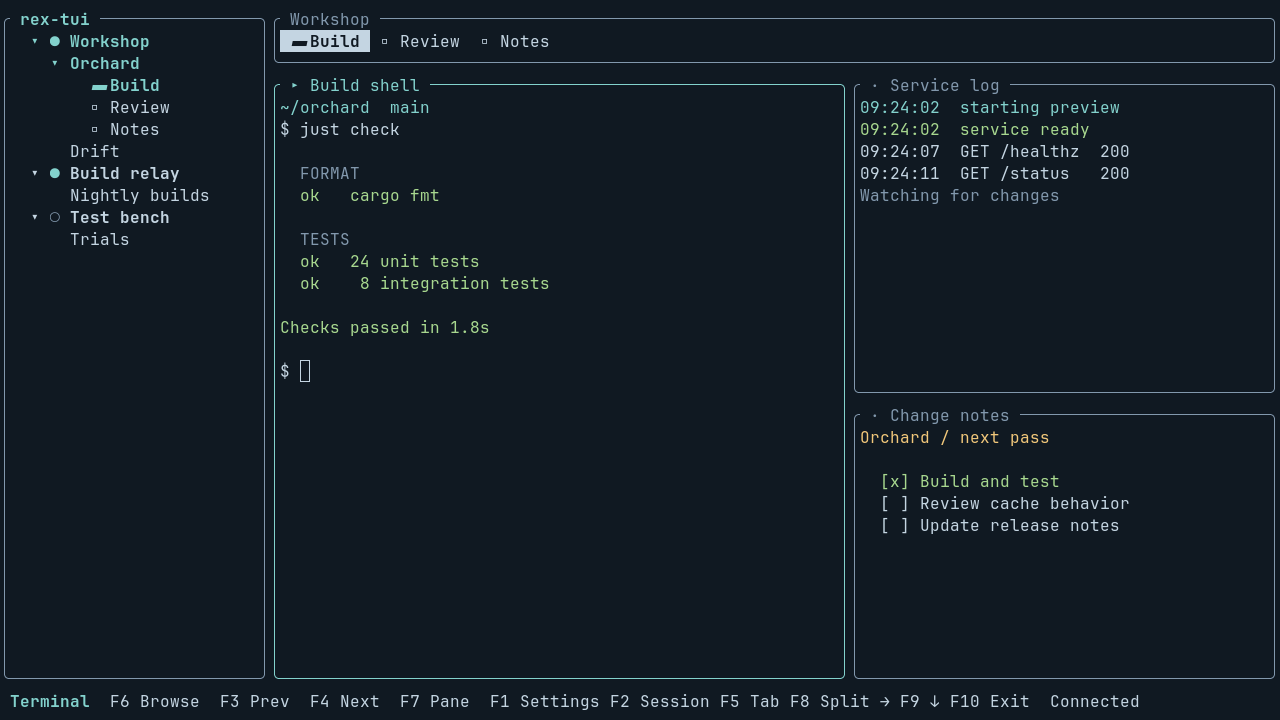
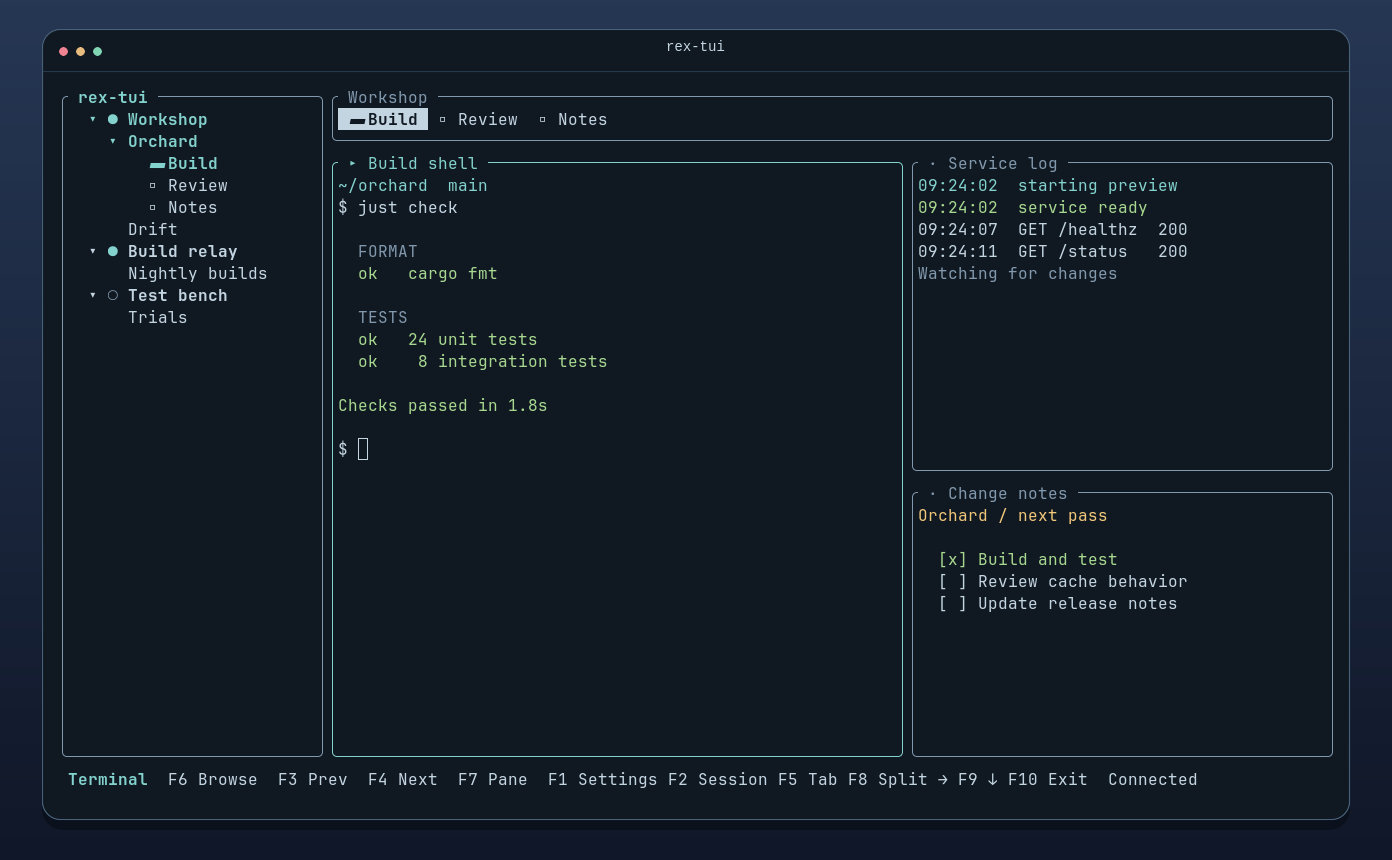
📸 Showcase rex-tui with polished terminal captures

diff --git a/scripts/tui-demo-capture.py b/scripts/tui-demo-capture.py
@@ -165,6 +165,31 @@ def wait_for(predicate, compositor, description):
     raise RuntimeError(f"Timed out waiting for {description}")
 
 
+def frame_capture(source, destination):
+    """Place the unscaled terminal capture in a presentation frame."""
+    width, height = map(int, subprocess.check_output(
+        ["magick", "identify", "-format", "%w %h", str(source)], text=True, timeout=5,
+    ).split())
+    left, top = 48, 43
+    right, bottom = left + width + 15, top + 41 + height + 15
+    artwork = [
+        f"fill '#0a101c' roundrectangle 42,51 {right + 6},{bottom + 10} 20,20",
+        f"fill '#101922' stroke '#486179' stroke-width 1 roundrectangle 42,29 {right + 6},{bottom} 18,18",
+        f"stroke '#26394c' line 43,71 {right + 5},71",
+        "stroke none fill '#f08392' circle 63,51 67,51",
+        "fill '#e8bb7f' circle 80,51 84,51",
+        "fill '#80d5b2' circle 97,51 101,51",
+    ]
+    subprocess.run([
+        "magick", "-size", f"{right + 49}x{bottom + 41}", "gradient:#263754-#101728",
+        "-draw", " ".join(artwork),
+        "-font", "Liberation-Mono", "-pointsize", "14", "-fill", "#c4d5e2",
+        "-gravity", "north", "-annotate", "+0+40", "rex-tui",
+        "-gravity", "northwest", str(source), "-geometry", f"+{left + 10}+{top + 35}",
+        "-composite", "-strip", str(destination),
+    ], check=True, timeout=10)
+
+
 def capture(args):
     binary = args.binary.resolve(strict=True)
     filename = "rex-tui-first-run.png" if args.scene == "first-run" else "rex-tui-demo.png"
@@ -172,6 +197,8 @@ def capture(args):
     labwc = shutil.which(args.compositor)
     if not labwc or not all(shutil.which(command) for command in ("foot", "grim")):
         raise RuntimeError("Install labwc, Foot and grim or supply --compositor")
+    if not args.raw and not shutil.which("magick"):
+        raise RuntimeError("Install ImageMagick or use --raw")
     if args.scene == "first-run" and not shutil.which("wtype"):
         raise RuntimeError("Install wtype to verify the first-run screen received fixture state")
     with tempfile.TemporaryDirectory(prefix="rex-tui-demo-") as directory:
@@ -237,7 +264,10 @@ def capture(args):
             draft = work / "workspace.png"
             subprocess.run(["grim", str(draft)], env=env, check=True, timeout=5)
             output.parent.mkdir(parents=True, exist_ok=True)
-            shutil.copyfile(draft, output)
+            if args.raw:
+                shutil.copyfile(draft, output)
+            else:
+                frame_capture(draft, output)
         except (RuntimeError, subprocess.SubprocessError):
             print(log.read_text(), file=sys.stderr)
             raise
@@ -258,6 +288,7 @@ def main():
     cli.add_argument("--library-path", type=Path, help="runtime libraries for a private labwc build")
     cli.add_argument("--font", default="monospace:size=12", help="Foot font descriptor")
     cli.add_argument("--scene", choices=("workspace", "first-run"), default="workspace")
+    cli.add_argument("--raw", action="store_true", help="omit the presentation frame")
     cli.add_argument("--output", type=Path, help="output PNG path (defaults to docs/images)")
     capture(cli.parse_args())
 

diff --git a/README.md b/README.md
@@ -1,6 +1,6 @@
 # rex-tui
 
-An open-source, keyboard-first terminal client for [Rex](https://www.superlogical.com/rex), built with [Ratatui](https://ratatui.rs/). Browse hosts, sessions, and tabs from a sidebar, then work in split panes. Rex keeps your sessions running when you detach.
+A keyboard-first terminal workspace for [Rex](https://www.superlogical.com/rex). Browse local and remote sessions, work in split panes, and pick up where you left off from another client. Your shells keep running when you detach.
 
 [Install](#install) · [Quick start](#quick-start) · [User guide](tui/README.md) · [Roadmap](#roadmap) · [Contributing](CONTRIBUTING.md)
 
@@ -10,13 +10,15 @@ A fictional workspace rendered by rex-tui in Foot. [Reproduce the screenshots](t
 
 ## Install
 
-**Arch Linux and Omarchy (x86_64).** Download the `.pkg.tar.zst` from the newest [preview release](https://github.com/andrew-bierman/rex-tui/releases). In the directory containing just the downloaded package, run:
+**Arch Linux and Omarchy (x86_64).** Copy this into your terminal to install the current preview:
 
 ```sh
-sudo pacman -U ./rex-tui-*.pkg.tar.zst
+package=rex-tui-0.1.0-16-x86_64.pkg.tar.zst
+curl -fLO "https://github.com/andrew-bierman/rex-tui/releases/download/rex-tui-v0.1.0-16/$package" &&
+  sudo pacman -U "./$package"
 ```
 
-The package includes rex-tui and its matching backend. For a source build, follow the [build and install guide](tui/README.md#install-on-arch-linux-and-omarchy).
+The package includes rex-tui and its matching backend. [Browse preview downloads](https://github.com/andrew-bierman/rex-tui/releases). For a source build, follow the [build and install guide](tui/README.md#install-on-arch-linux-and-omarchy).
 
 ## Quick start
 
@@ -66,8 +68,8 @@ After the keyboard workflows, the roadmap includes a richer input composer and o
 
 See the [contribution guide](CONTRIBUTING.md) for reporting bugs, proposing changes, and sharing tested patches. The [Arch package workflow](.github/workflows/tui-package.yml) builds and installs the package in clean CI.
 
-## Upstream and license
+## License and acknowledgments
 
-rex-tui is an independent fork of [Rex Rune](https://github.com/shuv1337/rex-rune). The upstream project maintains the [Rune frontend](https://github.com/shuv1337/rex-rune#readme). This fork also includes an [alpha Qt Quick frontend](qt/README.md). The [upstream sync guide](tui/README.md#releases-and-upstream-sync) documents how the fork takes shared core updates and tests both frontends.
+Built with [Ratatui](https://ratatui.rs/) and forked from [Rex Rune](https://github.com/shuv1337/rex-rune). The [upstream sync guide](tui/README.md#releases-and-upstream-sync) covers shared core updates. The repository also hosts an [alpha Qt Quick client](qt/README.md).
 
 Project code is released under the [MIT License](LICENSE). See the [vendored dependency notes](docs/building.md#vendored-dependencies) and [icon notices](resources/icons/README.md) for licenses and attribution.

diff --git a/tui/README.md b/tui/README.md
@@ -108,7 +108,7 @@ palette. To inherit the 16 ANSI colors inside panes too, enable
 
 ## Capture the demo
 
-Install Foot, labwc, grim, and wtype, then pass the underlying rex-tui executable
+Install Foot, labwc, grim, wtype, ImageMagick, and Liberation Mono. Pass the underlying rex-tui executable
 from the package or your build. The capture script renders fictional state in a
 private headless compositor. It uses a fixture backend and a disposable profile.
 
@@ -119,7 +119,7 @@ python3 scripts/tui-demo-capture.py --binary /usr/lib/rex-tui/rex-tui --scene fi
 
 Run these commands from the repository root. The images are written to
 `docs/images/rex-tui-demo.png` and `docs/images/rex-tui-first-run.png`.
-Use `--output` for another destination,
+Use `--raw` to omit the presentation frame or `--output` for another destination,
 `--font` to select a Foot font, or `--compositor` and `--library-path`
 for a separate labwc build.
 
